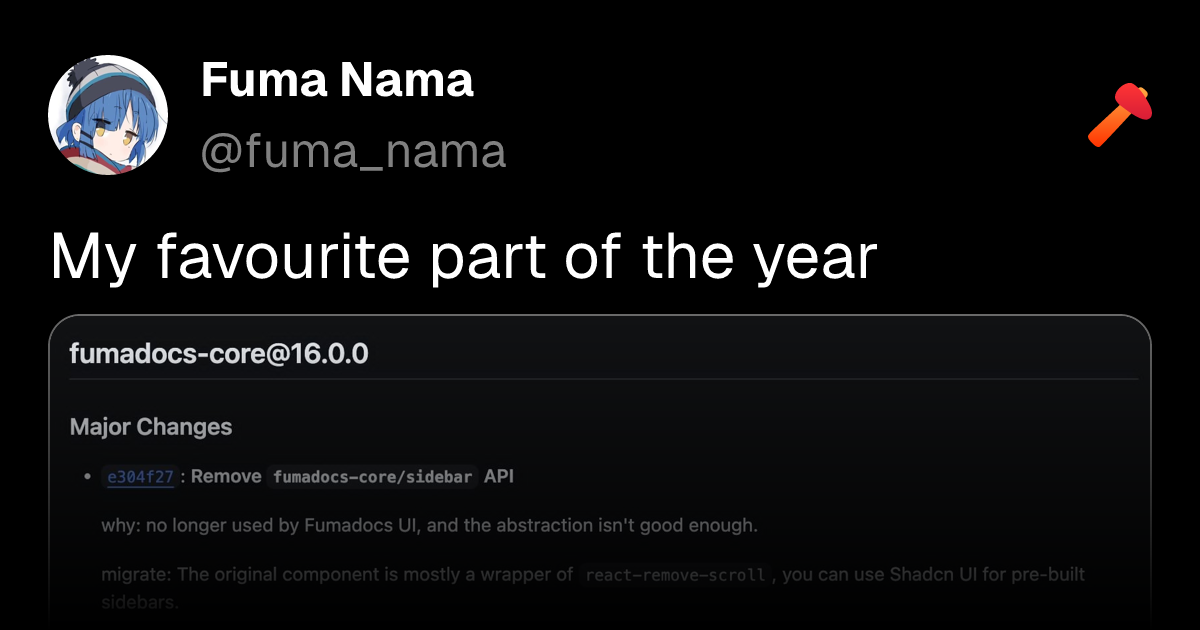
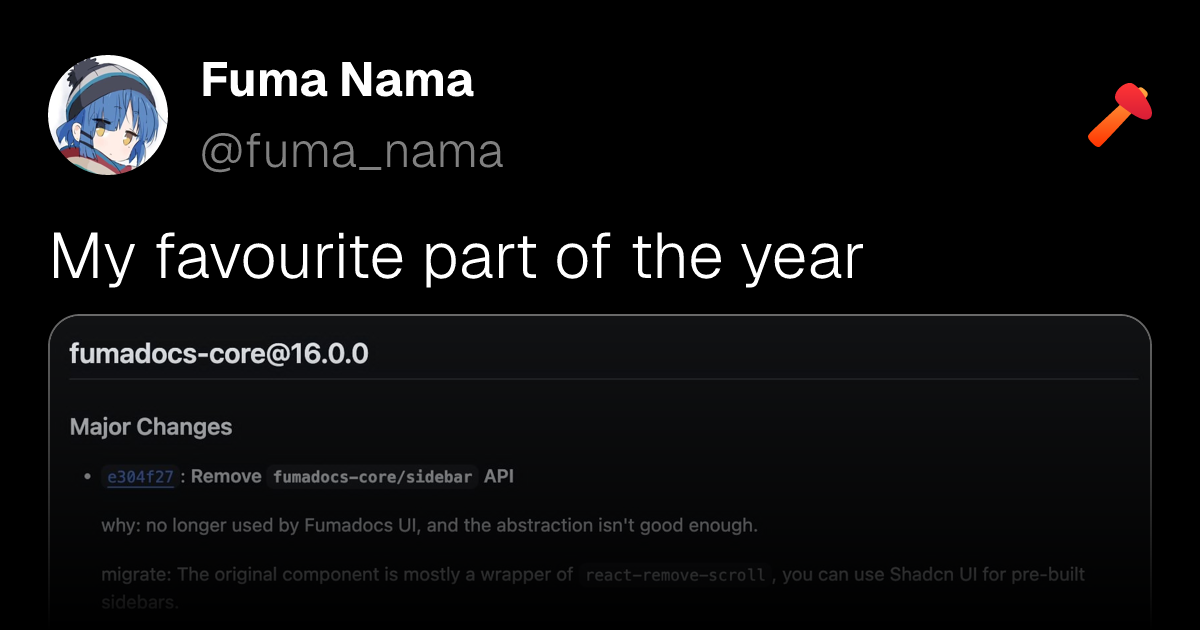
Core: extend the built-in Geist to weight 300 (#965)

Changed region(s): [[0.0308, 0.3619, 0.74, 0.4524], [0.185, 0.2111, 0.4317, 0.2714]]

diff --git a/takumi-napi/tests/generic-font.test.ts b/takumi-napi/tests/generic-font.test.ts
@@ -22,13 +22,17 @@ describe("generic font family", () => {
     expect(Buffer.compare(viaGeneric, viaName)).toBe(0);
   });
 
-  test("without a generic claim, monospace stacks fall back elsewhere", async () => {
+  test("without a generic claim, monospace stacks fall back in registration order", async () => {
     const renderer = new Renderer();
+    const sansData = await Bun.file("../assets/fonts/geist/Geist[wght].woff2").arrayBuffer();
+    await renderer.registerFont({ data: sansData });
     await renderer.registerFont({ data: monoData });
 
     const viaGeneric = await renderer.render(node("monospace"), options);
-    const viaName = await renderer.render(node("Geist Mono"), options);
-    expect(Buffer.compare(viaGeneric, viaName)).not.toBe(0);
+    const viaSans = await renderer.render(node("Geist"), options);
+    const viaMono = await renderer.render(node("Geist Mono"), options);
+    expect(Buffer.compare(viaGeneric, viaSans)).toBe(0);
+    expect(Buffer.compare(viaGeneric, viaMono)).not.toBe(0);
   });
 
   test("an unknown generic keyword rejects", async () => {

diff --git a/takumi-wasm/src/renderer.rs b/takumi-wasm/src/renderer.rs
@@ -28,7 +28,7 @@ use crate::{helper::map_error, model::*};
 // Last-resort only: no generic family claim, so `sans-serif` and friends resolve
 // to caller-registered fonts via the fallback bucket instead of this face.
 const EMBEDDED_FONTS: &[(&[u8], &str)] = &[(
-  include_bytes!("../../assets/fonts/geist/geist-latin-wght-400-800.woff2"),
+  include_bytes!("../../assets/fonts/geist/geist-latin-wght-300-800.woff2"),
   "Geist",
 )];
 

diff --git a/takumi-napi/src/renderer.rs b/takumi-napi/src/renderer.rs
@@ -350,7 +350,7 @@ pub struct ImageSource<'ctx> {
 // Last-resort only: no generic family claim, so `sans-serif` and friends resolve
 // to caller-registered fonts via the fallback bucket instead of this face.
 const EMBEDDED_FONTS: &[(&[u8], &str)] = &[(
-  include_bytes!("../../assets/fonts/geist/geist-latin-wght-400-800.woff2"),
+  include_bytes!("../../assets/fonts/geist/geist-latin-wght-300-800.woff2"),
   "Geist",
 )];
 

diff --git a/.tegami/embedded-geist-300.md b/.tegami/embedded-geist-300.md
@@ -1,0 +1,9 @@
+---
+packages:
+  "npm:@takumi-rs/core": minor
+  "npm:@takumi-rs/wasm": minor
+---
+
+### Extend the built-in Geist to weight 300
+
+The embedded last-resort font covers `wght` 300..800 and trims unused stylistic sets, ending up slightly smaller than before.
